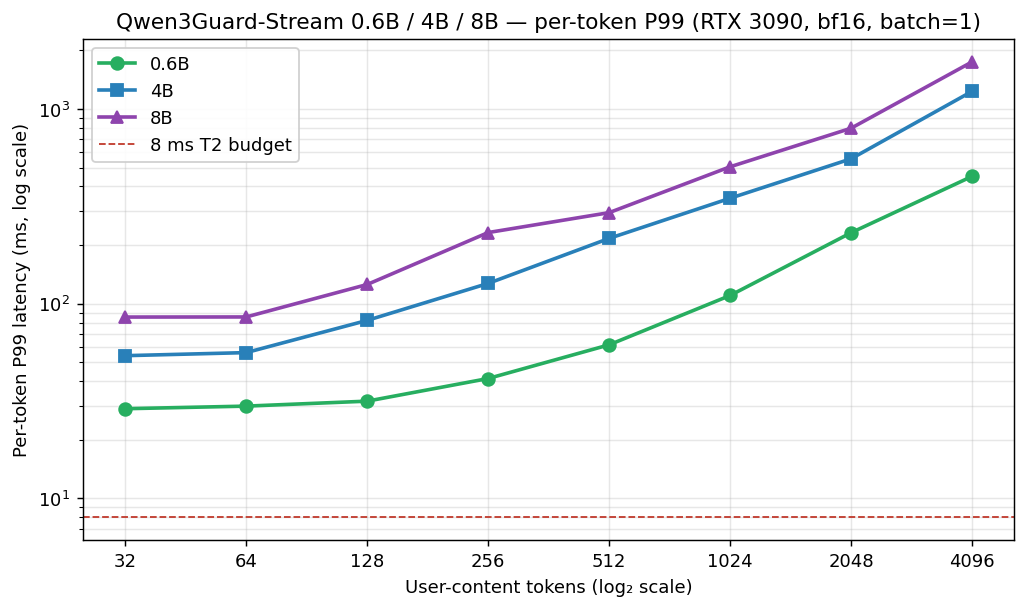
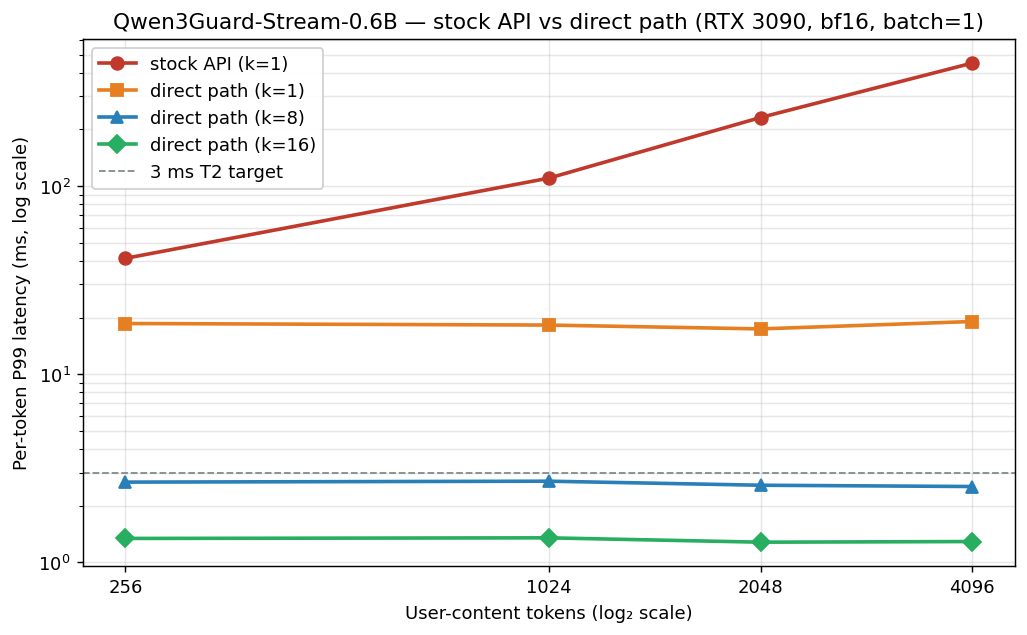
figures: regenerate stream figures with direct-path + length sweep data
fig1 (0.6B comparison): 4 curves across user_len ∈ {256, 1024, 2048,
4096} — stock API k=1, direct k=1, direct k=8, direct k=16. Shows
the re-prefill-elimination win (stock→direct at k=1) and the
chunking win (k=1→k=16) as separate components.

fig2 (cross-size headline): direct path at k=16, per-token P99 across
0.6B / 4B / 8B × user_len ∈ {81, 256, 1024, 2048, 4096}, with 3 ms
T2 target line. All three sizes stay under the target at every
measured length; 8B at 4096 is the binding worst case at 2.75 ms.

diff --git a/scripts/make_fig1_stream.py b/scripts/make_fig1_stream.py
@@ -1,4 +1,8 @@
-"""Figure 1 (stream): per-token P99 across 0.6B / 4B / 8B and the length sweep.
+"""Figure 1 (stream): Qwen3Guard-Stream-0.6B, stock API vs direct path.
+
+Shows the per-token P99 on 0.6B across input lengths for four paths:
+  - Stock stream_moderate_from_ids (k=1) — the shipped API.
+  - Direct model.forward(...) with DynamicCache (k=1, k=8, k=16).
 
 Run:
   uv run --with matplotlib python scripts/make_fig1_stream.py
@@ -10,19 +14,31 @@ from pathlib import Path
 
 import matplotlib.pyplot as plt
 
-USER_TOKENS = [32, 64, 128, 256, 512, 1024, 2048, 4096]
-PER_TOKEN_P99_06B = [28.9, 29.8, 31.6, 41.3, 61.5, 110.2, 231.4, 450.5]
-PER_TOKEN_P99_4B  = [54.1, 56.1, 82.1, 127.1, 216.4, 347.8, 554.5, 1230.8]
-PER_TOKEN_P99_8B  = [85.4, 85.5, 125.5, 231.9, 293.4, 504.6, 795.8, 1743.4]
+USER_TOKENS = [256, 1024, 2048, 4096]
+
+# Stock API per-token P99 (ms), 0.6B. Source: initial length sweep via
+# stream_moderate_from_ids, one token per .send() call.
+STOCK_API_K1 = [41.3, 110.2, 231.4, 450.5]
+
+# Direct path per-token P99 (ms), 0.6B, heads inside timed region.
+DIRECT_K1  = [18.60, 18.25, 17.41, 19.06]
+DIRECT_K8  = [ 2.67,  2.70,  2.57,  2.53]
+DIRECT_K16 = [ 1.34,  1.35,  1.28,  1.29]
 
 
 def main() -> None:
-    fig, ax = plt.subplots(figsize=(8, 4.8))
-    ax.plot(USER_TOKENS, PER_TOKEN_P99_06B, "o-", label="0.6B", linewidth=2, markersize=7, color="#27ae60")
-    ax.plot(USER_TOKENS, PER_TOKEN_P99_4B,  "s-", label="4B",   linewidth=2, markersize=7, color="#2980b9")
-    ax.plot(USER_TOKENS, PER_TOKEN_P99_8B,  "^-", label="8B",   linewidth=2, markersize=7, color="#8e44ad")
+    fig, ax = plt.subplots(figsize=(8, 5.0))
+    ax.plot(USER_TOKENS, STOCK_API_K1, "o-", label="stock API (k=1)",
+            linewidth=2, markersize=7, color="#c0392b")
+    ax.plot(USER_TOKENS, DIRECT_K1,  "s-", label="direct path (k=1)",
+            linewidth=2, markersize=7, color="#e67e22")
+    ax.plot(USER_TOKENS, DIRECT_K8,  "^-", label="direct path (k=8)",
+            linewidth=2, markersize=7, color="#2980b9")
+    ax.plot(USER_TOKENS, DIRECT_K16, "D-", label="direct path (k=16)",
+            linewidth=2, markersize=7, color="#27ae60")
 
-    ax.axhline(8.0, linestyle="--", linewidth=1, color="#c0392b", label="8 ms T2 budget")
+    ax.axhline(3.0, linestyle="--", linewidth=1, color="#7f8c8d",
+               label="3 ms T2 target")
 
     ax.set_xscale("log", base=2)
     ax.set_yscale("log")
@@ -30,7 +46,8 @@ def main() -> None:
     ax.set_xticklabels([str(n) for n in USER_TOKENS])
     ax.set_xlabel("User-content tokens (log₂ scale)")
     ax.set_ylabel("Per-token P99 latency (ms, log scale)")
-    ax.set_title("Qwen3Guard-Stream 0.6B / 4B / 8B — per-token P99 (RTX 3090, bf16, batch=1)")
+    ax.set_title("Qwen3Guard-Stream-0.6B — stock API vs direct path "
+                 "(RTX 3090, bf16, batch=1)")
     ax.legend(loc="upper left", framealpha=0.9)
     ax.grid(True, which="both", alpha=0.3)
 

diff --git a/scripts/make_fig2_stream.py b/scripts/make_fig2_stream.py
@@ -1,4 +1,7 @@
-"""Figure 2 (stream): Qwen3Guard-Stream-0.6B prefill P99 vs per-token P99 across the length sweep.
+"""Figure 2 (stream): direct-path per-token P99 at k=16 across 3 sizes × 5 lengths.
+
+The headline "T2 is met at k=16 across all sizes and lengths" figure.
+All six lengths × three sizes stay under the 3 ms T2 target.
 
 Run:
   uv run --with matplotlib python scripts/make_fig2_stream.py
@@ -10,27 +13,36 @@ from pathlib import Path
 
 import matplotlib.pyplot as plt
 
-USER_TOKENS = [32, 64, 128, 256, 512, 1024, 2048, 4096]
-PREFILL_P99    = [27.1, 27.5, 29.4, 38.9, 58.2, 108.1, 288.3, 457.3]
-PER_TOKEN_P99  = [28.9, 29.8, 31.6, 41.3, 61.5, 110.2, 231.4, 450.5]
+USER_TOKENS = [81, 256, 1024, 2048, 4096]
+
+# Direct path per-token P99 (ms) at k=16, heads inside timed region.
+K16_06B = [1.38, 1.34, 1.35, 1.28, 1.29]
+K16_4B  = [1.69, 1.60, 1.69, 1.64, 2.17]
+K16_8B  = [1.74, 1.80, 1.91, 2.21, 2.75]
 
 
 def main() -> None:
-    fig, ax = plt.subplots(figsize=(8, 4.8))
-    ax.plot(USER_TOKENS, PREFILL_P99,   "o-", label="prefill P99",    linewidth=2, markersize=7, color="#2980b9")
-    ax.plot(USER_TOKENS, PER_TOKEN_P99, "s-", label="per-token P99", linewidth=2, markersize=7, color="#27ae60")
+    fig, ax = plt.subplots(figsize=(8, 5.0))
+    ax.plot(USER_TOKENS, K16_06B, "o-", label="0.6B",
+            linewidth=2, markersize=7, color="#27ae60")
+    ax.plot(USER_TOKENS, K16_4B,  "s-", label="4B",
+            linewidth=2, markersize=7, color="#2980b9")
+    ax.plot(USER_TOKENS, K16_8B,  "^-", label="8B",
+            linewidth=2, markersize=7, color="#8e44ad")
 
-    ax.axhline(8.0, linestyle="--", linewidth=1, color="#c0392b", label="8 ms T2 budget")
+    ax.axhline(3.0, linestyle="--", linewidth=1, color="#c0392b",
+               label="3 ms T2 target")
 
     ax.set_xscale("log", base=2)
-    ax.set_yscale("log")
     ax.set_xticks(USER_TOKENS)
     ax.set_xticklabels([str(n) for n in USER_TOKENS])
     ax.set_xlabel("User-content tokens (log₂ scale)")
-    ax.set_ylabel("P99 latency (ms, log scale)")
-    ax.set_title("Qwen3Guard-Stream-0.6B — prefill vs per-token P99 (RTX 3090, bf16, batch=1)")
+    ax.set_ylabel("Per-token P99 latency (ms)")
+    ax.set_title("Qwen3Guard-Stream direct path at k=16 — per-token P99 across sizes "
+                 "(RTX 3090, bf16, batch=1)")
     ax.legend(loc="upper left", framealpha=0.9)
-    ax.grid(True, which="both", alpha=0.3)
+    ax.grid(True, alpha=0.3)
+    ax.set_ylim(0, 4.0)
 
     out = Path(__file__).resolve().parent.parent / "figures" / "fig2_stream_length_0.6b.png"
     out.parent.mkdir(parents=True, exist_ok=True)
